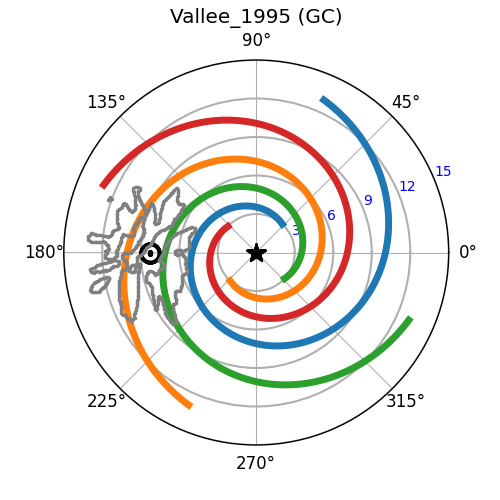
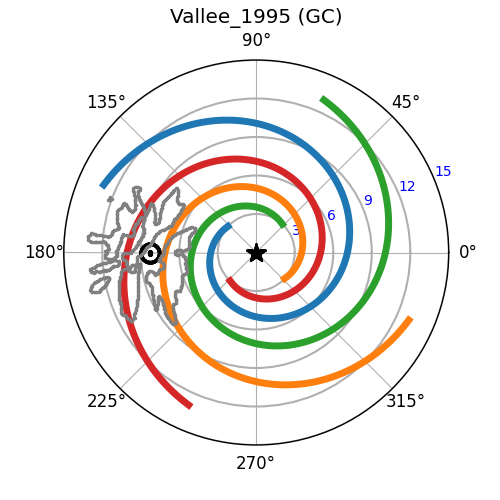
Vallee 1995 doc updated

diff --git a/src/SpiralMap/models_.py b/src/SpiralMap/models_.py
@@ -208,9 +208,12 @@ class spiral_vallee(object):
 		phi = phi[mask]
 		
 		# Convert to Cartesian coordinates (Galactocentric)
-		x_gc = R * np.cos(phi)
-		y_gc = R * np.sin(phi)
-		
+		# x_gc = R * np.cos(phi)
+		# y_gc = R * np.sin(phi)
+
+		y_gc = R * np.cos(phi)
+		x_gc = -R * np.sin(phi)
+
 		# Convert to Heliocentric coordinates (Sun at x=8, y=0 in galactocentric)
 		# In heliocentric: x_hc = x_gc - (-8) = x_gc + 8, y_hc = y_gc - 0 = y_gc
 		x_hc = x_gc + self.R0  
@@ -242,6 +245,7 @@ class spiral_vallee(object):
 			'yhc': yhc,
 			'xgc': xgc,
 			'ygc': ygc
+		
 		}
 		return self.dout
 

diff --git a/docs/source/models_available.rst b/docs/source/models_available.rst
@@ -9,6 +9,8 @@ The following table provides a summary of the spiral arm models included in **Sp
 +========================+==============================================+
 | Taylor_Cordes_1992     | Model based on HII regions                   |
 +------------------------+----------------------------------------------+
+| Vallee_1995            | Based on Galactic magnetic field/Dust/stars  |
++------------------------+----------------------------------------------+
 | Drimmel_NIR_2000       | Based on Galactic plane emission in N        |
 +------------------------+----------------------------------------------+
 | Levine_2006            | Based on HI (21 cm) data                     |
@@ -32,6 +34,13 @@ The following table provides a summary of the spiral arm models included in **Sp
 	  which is based on radio and optical observations of H II regions. 	  
 	* We use the model parameters presented in their Table 1.	
 	* There are four arms in this model (Arm1, Arm2, Arm3, Arm4).
+
+`Vallee_1995`
+-----------------
+	* Class implementing the model from `Vallee 1995 <https://ui.adsabs.harvard.edu/abs/1995ApJ...454..119V/abstract>`_ 
+ 	  which is based on Galactic magnetic field data, HI, HII, CO, and Dust. 	  
+	* We use their best model as depicted in their figure 3.	
+	* There are four arms in this model (Sagittarius, Scutum, Norma, Perseus).
 
 `Drimmel_NIR_2000`
 -----------------

diff --git a/docs/source/index.rst b/docs/source/index.rst
@@ -12,7 +12,7 @@ We present a Python library of the Milky Way's major spiral arm models and maps.
 Most users are interested in simply extracting the trace or overplotting the spiral arms on another plot of interest, for example while comparing substructure in the velocity field to the location of spiral arms. 
 To this end, with `SpiralMap` one can:
 
-+ Access 8 independent spiral arm models from literature. List of the available models is :doc:`here </models_available>`.
++ Access 9 independent spiral arm models from literature. List of the available models is :doc:`here </models_available>`.
 + Extract the trace of individual or all spiral arms from a particular model.
 + Directly overplot spiral arms with choice of Cartesian or Polar coordinates, and in Heliocentric or Galactocentric frames.
 

diff --git a/README.md b/README.md
@@ -17,7 +17,7 @@ Read the preprint at [arxiv](https://www.arxiv.org/abs/2506.11383).
 ## Updates
 + Missing Local arm (logarithmic) added to Hou-Han 2014 model.
 + Vallee 1995 model included. 
-+ dependencies included
++ Dependencies included
 
 Installation
 -------------
